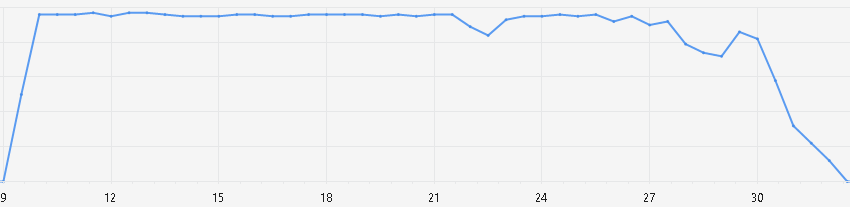
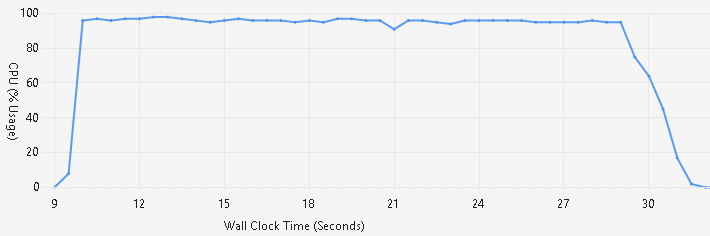
* updated CPU utilization chart * finished results section

diff --git a/latex/direct_intersection.tex b/latex/direct_intersection.tex
@@ -935,7 +935,7 @@ Resolutions between 100 and 150 cells in one dimensions usually proofed to be go
 
 The amount of exploitable parallelism has already been discussed in section \ref{sec:parallelization}.
 The topmost loop of the \textproc{DirectIntersection} function has been parallelized in the implementation using Microsoft's Parallel Patterns Library (PPL) and the parallel\_for function which uses a scheduler implementing work stealing to balance the workload \cite{ppl_parallel_for}.
-The CPU utilization during an single run of the direct intersection approach is shown in figure \ref{fig:di_cpu}.
+The CPU utilization during an single run of the direct intersection approach on the impeller scene is shown in figure \ref{fig:di_cpu}.
 %
 \begin{figure}
 	\centering
@@ -946,11 +946,16 @@ The CPU utilization during an single run of the direct intersection approach is 
 	\label{fig:di_cpu}
 \end{figure}
 %
+The CPU cores are almost perfectly utilized for the first 20 seconds.
+Afterwards, the workload drops done to zero within the last 3 seconds of the run.
+The PPL's default scheduler already does a pretty good job by keeping all cores utilized for 85\% of the runtime.
+This slow drop at the end of the test run might be improved by employing a better scheduling strategy.
+However, more complex scheduling usually also increases the parallelization overhead.
+Concerning memory, the regular grid holding the impeller requires approximately 600 MiB memory.
+During the algorithm, 300 MiB additional memory has been allocated, mostly for the temporary union structures and the buffer holding the resulting surface.
 
-
-Figure \ref{fig:direct_intersection_results} contains renderings of the resulting triangle meshes.
-
-
+Figure \ref{fig:di_results} contains renderings of the resulting triangle meshes.
+%
 \begin{figure}
 	\centering
 	\begin{subfigure}[b]{0.4\textwidth}
@@ -998,9 +1003,31 @@ Figure \ref{fig:direct_intersection_results} contains renderings of the resultin
 	\caption{
 		Renderings of the result meshes using MeshLab after applying the direct intersection reconstruction approach on the selected test scenes \ref{tbl:test_scenes}.
 	}
-	\label{fig:direct_intersection_results}
+	\label{fig:di_results}
 \end{figure}
-
+%
+The cube2 scene has been extracted almost correctly.
+All intersecting triangles have been properly split and retriangulated.
+There is one small hole at one of the edges and a few falsely remaining ones at the bottom left of the cutting surface, \cf figure \ref{fig:di_cube2}.
+These errors are due to a wrong outcome of the inside test, \cf \textproc{IsTriangleInsideStructure} in algorithm \ref{alg:triangle_inside_test}.
+Nevertheless, the errors in the reconstructed surface are small and be corrected manually using an appropriate 3D modeling tool, creating a closed mesh.
+%
+Both cylinder scenes delivered good results.
+The variant with the small and thin triangles even resulted in an almost perfect surface with zero holes and no leftover triangles.
+Surprisingly, the other variant with the quality triangulation contained 9 holes and 1 un-eliminated triangle.
+This outcome is quite the opposite of what had been observed during the development of the algorithm.
+In early stages, before the GTE library had been used for its excellent CDT, the core problem was the correct splitting of intersected triangles, which was much easier on smaller and more regular triangles.
+With the use of GTE, the numeric problems shifted from the CDT to the \textproc{IsTriangleInsideStructure} test.
+The reason why smaller and more regular triangles entail a higher error rate in this test is not entirely clear.
+The test is quite sensitive to the chosen target point of the structure used for casting the test ray.
+Furthermore, a lot if ray-triangle intersections are performed where triangle normals are compared with the ray's direction, \cf details of algorithm \ref{alg:triangle_inside_test}.
+All these tests become numerically unstable, if the ray becomes parallel to the tested triangles.
+In theory, the tested triangle should always lie clearly inside or outside the structure it is tested against, otherwise there must have been an intersection and the triangle would have been split.
+In practice, if an intersection has been missed and the triangle spans the structure or the tested triangle is almost degenerated and very close to the structure, errors may occur.
+%
+Concerning the more complex scenes, the impeller and turbine surfaces look quite good from a distance, but fail horribly reviewing the details.
+Figure \ref{fig:di_scenes_artifacts} shows two detailed views, one centered on a smaller blade of the impeller and one centered on a milling groove of the turbine.
+%
 \begin{figure}
 	\centering
 	\begin{subfigure}[b]{\textwidth}
@@ -1020,10 +1047,21 @@ Figure \ref{fig:direct_intersection_results} contains renderings of the resultin
 	}
 	\label{fig:di_scenes_artifacts}
 \end{figure}
+%
+Especially the impeller scene contains quite a lot of intersecting triangles and structures in each cell.
+When zooming very close to the edges of a blade, several intersecting triangles can be seen which have not been split, probably due to errors when detecting the intersection lines.
+These errors may then cause consequential errors in \eg the triangle inside test.
+As the impeller's grid contains cells with up to 64 structures, small mistakes add up iteratively and may cause huge defects on the final surface.
+Especially the cells which contain triangles from many swept volumes, \ie cells at the blade edges, suffer from this effect.
+The triangle inside test still does an acceptable job and the final surface does somehow resemble the surface.
+Nonetheless, the reconstructed surface contains a huge number of holes and boundaries as well as lots of intersecting triangles.
+Regarding the quality of the produces mesh, the result is probably worthless for subsequent tasks, like using it for simulations.
+%
+The turbine scene seems to have a similar problem.
+Most of the intersections between stock and swept volume triangles have not been caught.
+As the total number of swept volumes is relatively low compared to the impeller scene and only very few of them intersect each other, the surface errors are considerably smaller.
+By deleting self intersecting triangles from the outcome, an intelligent hole closing algorithm might be able to recover a closed surface, \eg an adaption of the ball-pivoting algorithm. %TODO cite BPA close boundary loops.
 
-
-
-Why it does not work on larger meshes?
-Run time complexity
-Numerical robustness
-
+All extracted meshes in general have issues with neighboring triangles not having identical shared vertices.
+The difference however is neglectable and can easily be corrected in a post processing step which merges close vertices, \eg using the Merge Close Vertices filter of MeshLab.
+Furthermore, the result contains many T-vertices around intersected triangles which result from clipping a cell's triangles after the triangle-triangle intersections and retriangulations instead of before, \cf section \ref{sec:clipping}.
